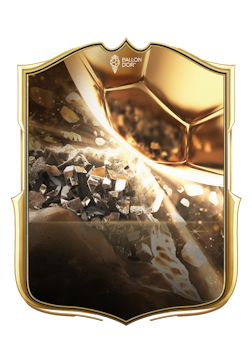
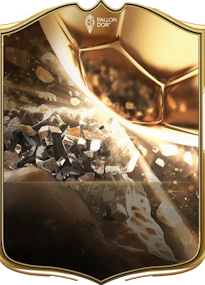
modified images

diff --git a/Fut/dist/style.css b/Fut/dist/style.css
@@ -40,9 +40,9 @@ main {
   font-weight: 400;
 }
 
-#Lionel\ Messi, #Cristiano\ Ronaldo, #Kevin\ De\ Bruyne {
-  background-image: url("../assets/img/badge_ballon_dor.png");
-  background-size: cover;
+#Lionel\ Messi, #Cristiano\ Ronaldo, #Kevin\ De\ Bruyne, #Kylian\ Mbappé {
+  background-image: url("../assets/img/badge_ballon_dor.webp");
+  background-size: contain;
   background-repeat: no-repeat;
   background-position: center;
   height: 200px;
@@ -54,7 +54,7 @@ main {
 }
 .playerCard {
   background-image: url("../assets/img/badge_total_rush.webp");
-  background-size: cover;
+  background-size: contain;
   background-repeat: no-repeat;
   background-position: center;
   height: 200px;
@@ -122,7 +122,7 @@ main {
 
 .ppicture img {
   width: 90px;
-  height: auto;
+  height: 90px;
 }
 
 .PAC {
@@ -255,6 +255,7 @@ main {
   align-items: center;
   justify-content: center;
   flex-direction: column;
+  gap: 0;
   grid-row: 1;
 }
 
